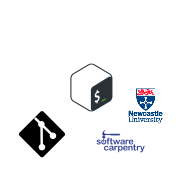
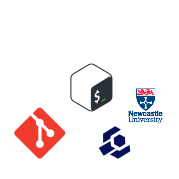
Update images

Changed region(s): [[0.0559, 0.5866, 0.3631, 0.8939], [0.5307, 0.6983, 0.8101, 0.8939]]

diff --git a/about.md b/about.md
@@ -5,10 +5,15 @@ title: About
 
 Software and Data Carpentry Workshops @ NCL are organised and presented by the Newcastle University's [Research Software Engineering Team](https://rse.ncldata.dev/).
 
-The aim of these workshops are to teach foundational coding and data skills to researchers across the university. No prior knowledge of the material is required. The workshop follows the format of the [The Carpentries](https://carpentries.org).
+The aim of these workshops are to teach foundational coding and data skills to researchers across the university. No prior knowledge of the material is required. The workshops follow the format of the [The Carpentries](https://carpentries.org).
 
 All members of our RSE Team are certified Software Carpentry Instructors (or in the process of becoming certified if they are new to the team). Our training lead, [Dr. Jannetta Steyn](https://rse.ncldata.dev/jannetta-steyn) is also a Carpentry Instructor Trainer.
 
 We are not limited to the official Carpentry Lessons as we will be developing lessons as demand dictates. However we will aim to mostly follow the pariticpatory live-coding pedagogical approach.
 
 We aim to run at least bi-monthly workshops open to all researchers but we also plan to run workshops for specific groups. If you would like to arrange workshop for your group or lab, please contact Jannetta at [jannetta.steyn@newcastle.ac.uk](mailto::jannetta.steyn@newcastle.ac.uk).
+
+<div style="border-top: 1px solid black; padding: 5px 5px 5px 5px;">
+  <img src="/assets/images/TheCarpentries.svg" height="50px">
+  <img style="float:right" src="/assets/images/Newcastle_University_logo.svg" height="55px">
+</div>
